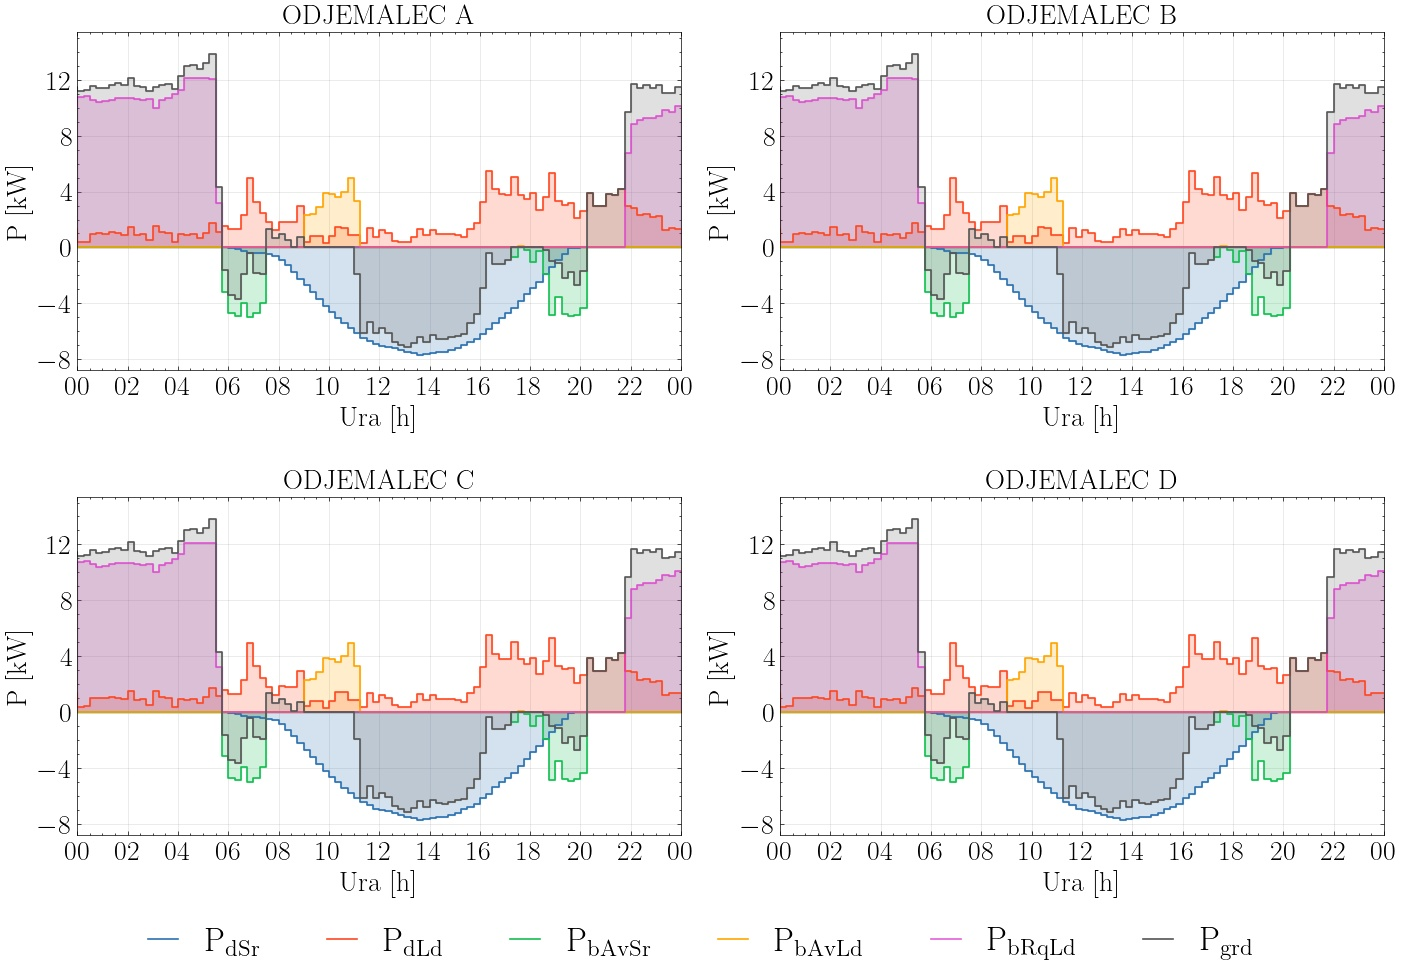
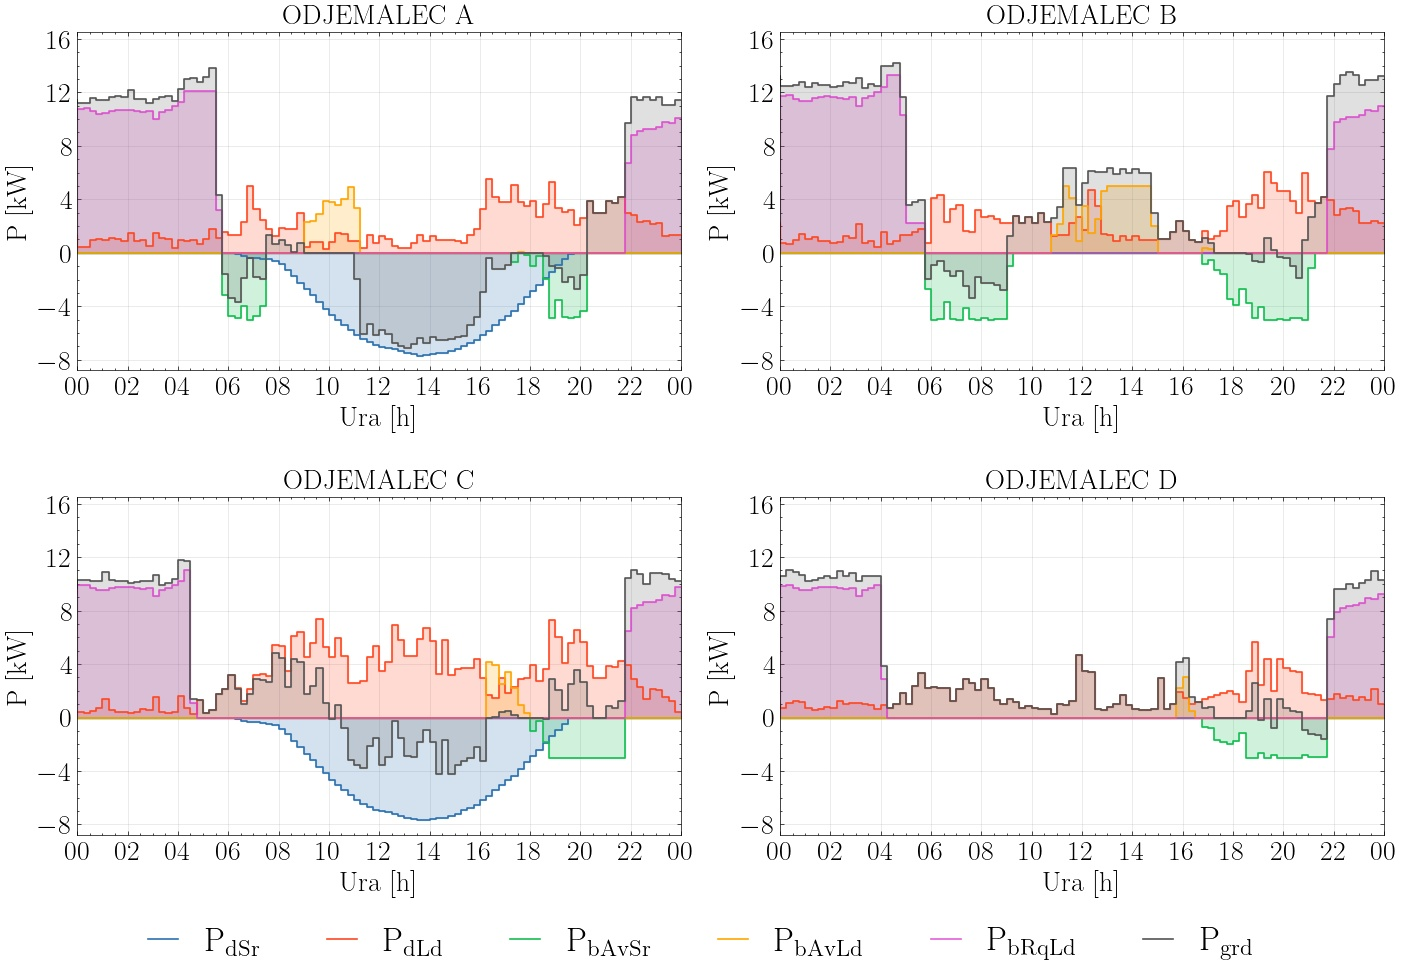
sad

diff --git a/SimulatorUser/ExportData/lepo.py b/SimulatorUser/ExportData/lepo.py
@@ -400,7 +400,7 @@ def drawingSOCGraaph(FileDirecotoryUserData, TestNumber, DatetTimeTest, ArrUserN
 
 
 
-SelectedUser=[1,1,1,1]
+SelectedUser=[1,2,3,4]
 FileDirecotory="./"
 DateTime="01/02/2022 00:30"
 
